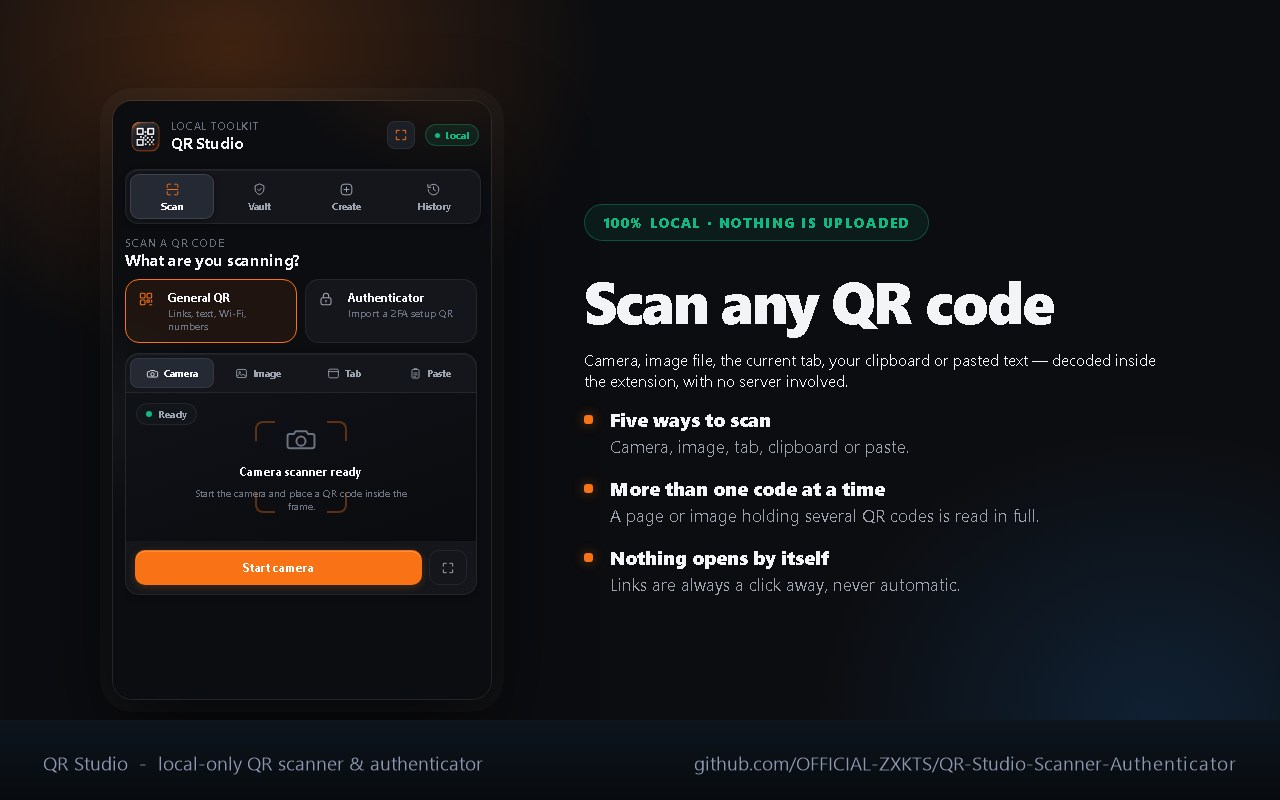
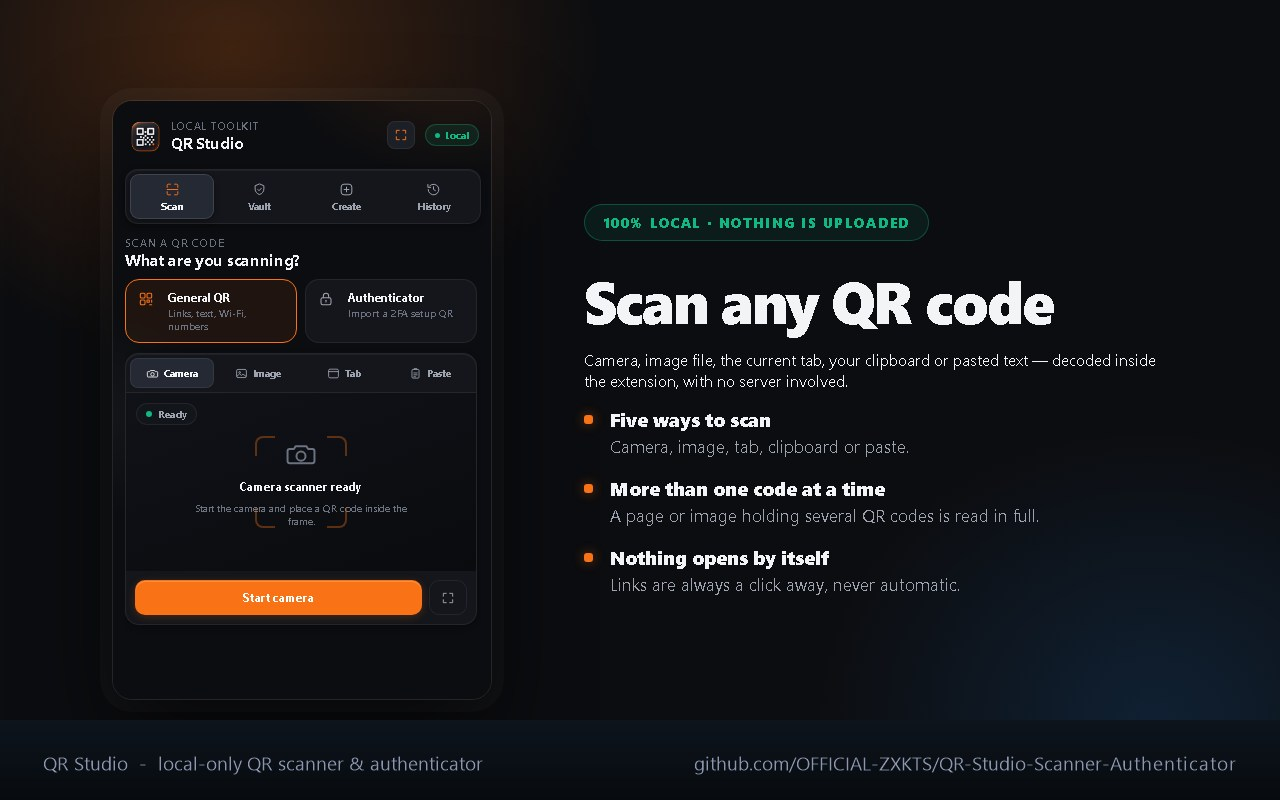
Stop the scan panel from breaking and read every code in a frame
- The camera stage has a fixed height, so nothing shifts when a preview, the
  paste box or a result appears; the paste box sizes itself instead of being
  cut off and the result card no longer slices the heading above it
- Multi-code recognition decodes the frame at full resolution and sweeps two
  overlapping tile grids, so codes that sit close together and coloured or
  low-contrast codes are read as well
- Refresh the store screenshots and the README gallery

Changed region(s): [[0.0938, 0.6875, 0.3438, 0.7812], [0.1875, 0.5312, 0.2812, 0.6562]]

diff --git a/popup.js b/popup.js
@@ -231,6 +231,8 @@ function setSource(source) {
   // The framing reticle belongs to the camera view only - it would otherwise
   // sit on top of the paste box and the other source panels.
   ui.reticle.hidden = source !== 'camera';
+  ui.stage.classList.toggle('is-paste', source === 'paste');
+  ui.stage.classList.remove('has-result');
   ui.stageEmpty.hidden = source === 'paste';
   ui.scanCanvas.hidden = true;
   ui.camera.hidden = true;
@@ -310,7 +312,7 @@ async function decodeSource(source, { multi = false } = {}) {
     }
   }
   if (typeof window.jsQR !== 'function') throw new Error('The bundled QR decoder did not load. Reload the extension from chrome://extensions.');
-  if (!drawToProcessingCanvas(source, multi ? 1100 : 1400)) return [];
+  if (!drawToProcessingCanvas(source, multi ? 1600 : 1400)) return [];
   const context = ui.processCanvas.getContext('2d', { willReadFrequently: true });
   const { width, height } = ui.processCanvas;
   if (!multi) {
@@ -324,6 +326,16 @@ async function decodeSource(source, { multi = false } = {}) {
 // The bundled decoder returns one code per pass, so a frame that holds several
 // QR codes is read again in overlapping tiles and every distinct payload is
 // kept. That is how one page or image can yield more than one code.
+const MULTI_CODE_TILE_SCALES = [0.5, 0.4];
+
+function tilePositions(size, tile, step) {
+  const positions = [];
+  for (let value = 0; value <= size - tile + 1; value += step) positions.push(Math.round(value));
+  const last = size - tile;
+  if (positions[positions.length - 1] !== last) positions.push(last);
+  return [...new Set(positions)];
+}
+
 function detectAllQRCodes(context, width, height) {
   const found = [];
   const seen = new Set();
@@ -339,14 +351,17 @@ function detectAllQRCodes(context, width, height) {
     return code?.data || '';
   };
   collect(read(0, 0, width, height));
-  const tileWidth = Math.max(80, Math.round(width * 0.6));
-  const tileHeight = Math.max(80, Math.round(height * 0.6));
-  const axis = (size, tile) => [...new Set([0, Math.round((size - tile) * 0.5), size - tile])].filter((value) => value >= 0);
-  for (const y of axis(height, tileHeight)) {
-    for (const x of axis(width, tileWidth)) {
-      // The full pass is repeated here on purpose: a frame with two codes
-      // confuses the single-shot read, while a clean tile still decodes.
-      collect(read(x, y, tileWidth, tileHeight));
+  // Two overlapping grids: the wider one catches the big codes, the finer one
+  // separates codes that sit close to each other.
+  for (const scale of MULTI_CODE_TILE_SCALES) {
+    const tileWidth = Math.max(80, Math.round(width * scale));
+    const tileHeight = Math.max(80, Math.round(height * scale));
+    const stepX = Math.max(1, Math.round(tileWidth / 2));
+    const stepY = Math.max(1, Math.round(tileHeight / 2));
+    for (const y of tilePositions(height, tileHeight, stepY)) {
+      for (const x of tilePositions(width, tileWidth, stepX)) {
+        collect(read(x, y, tileWidth, tileHeight));
+      }
     }
   }
   return found;
@@ -774,6 +789,18 @@ function showResult({ type, label, description, value, actions = [] }) {
     ui.resultActions.append(button);
   });
   ui.resultActions.hidden = actions.length === 0;
+  // Give the stage its height back so the result and the heading above it can
+  // be seen together, and keep the result itself in view.
+  if (state.view === 'scan') {
+    ui.stage.classList.add('has-result');
+    requestAnimationFrame(() => {
+      const panel = ui.resultCard.closest('.view-panel');
+      if (!panel) return;
+      panel.scrollTop = 0;
+      const overflow = ui.resultCard.getBoundingClientRect().bottom - panel.getBoundingClientRect().bottom;
+      if (overflow > 0) panel.scrollTop += overflow;
+    });
+  }
 }
 
 // Codes found next to the first one in the same frame are listed underneath.

diff --git a/popup.css b/popup.css
@@ -463,14 +463,25 @@ select option { color: var(--text-primary); background: var(--bg-elevated); }
 .scanner-stage {
   position: relative;
   display: grid;
-  min-height: 148px;
-  max-height: 178px;
+  /* A fixed height keeps the panel still: nothing shifts when the camera,
+     a preview or the paste box appears, so the content above is never cut. */
+  height: 178px;
   place-items: center;
   overflow: hidden;
   background: linear-gradient(160deg, #101218, #0A0B0E);
 }
+/* The stage gives room back once a result is on screen, so the result card
+   and the heading above it both stay visible without scrolling. */
+.scanner-stage.has-result { height: 118px; }
+/* The paste box needs more room than a code frame, so it sizes itself. */
+.scanner-stage.is-paste { height: auto; min-height: 178px; }
+/* With a result on screen the paste box becomes compact again, so the heading
+   above it and the result below both stay visible. */
+.scanner-stage.is-paste.has-result { min-height: 118px; }
+.scanner-stage.is-paste.has-result .paste-panel textarea { height: 52px; min-height: 52px; }
 .scanner-stage.drag-over { outline: 2px solid var(--accent-primary); outline-offset: -5px; }
-video, #scanCanvas { display: block; width: 100%; max-height: 300px; object-fit: cover; }
+video { display: block; width: 100%; height: 100%; object-fit: cover; }
+#scanCanvas { display: block; width: 100%; height: 100%; object-fit: contain; background: #05060A; }
 #processCanvas { display: none; }
 
 .stage-empty {
@@ -543,9 +554,11 @@ video, #scanCanvas { display: block; width: 100%; max-height: 300px; object-fit:
 .stage-status.error { color: var(--accent-danger); }
 .stage-status.error::before { background: var(--accent-danger); }
 
-.paste-panel { width: 100%; padding: 34px 16px 16px; }
+.paste-panel { width: 100%; padding: 12px 14px; }
 .paste-panel label { display: block; margin-bottom: 8px; color: var(--text-secondary); font-size: 11px; line-height: 1.4; }
-.paste-panel textarea { min-height: 92px; margin-bottom: 9px; font: 11px/1.4 var(--font-mono); }
+.paste-panel textarea { min-height: 84px; margin-bottom: 9px; font: 11px/1.4 var(--font-mono); }
+/* The status pill would sit on top of the paste label. */
+.scanner-stage.is-paste .stage-status { display: none; }
 code { color: #e9d5ff; }
 
 .scan-controls { display: flex; gap: 7px; padding: 9px; }
@@ -930,7 +943,9 @@ body.full-page .source-tab svg { width: 16px; height: 16px; }
 body.full-page .camera-picker { padding: 11px 14px; font-size: 11.5px; }
 body.full-page .camera-picker select { padding: 7px 10px; font-size: 12px; }
 
-body.full-page .scanner-stage { min-height: 300px; max-height: 46vh; }
+body.full-page .scanner-stage { height: 46vh; min-height: 300px; }
+body.full-page .scanner-stage.has-result { height: 240px; }
+body.full-page .scanner-stage.is-paste { height: auto; min-height: 300px; }
 body.full-page .reticle { width: 280px; height: 280px; }
 body.full-page .reticle span { width: 60px; height: 60px; border-width: 3px; border-radius: 15px; }
 body.full-page .stage-empty { gap: 14px; padding: 34px; }

diff --git a/CHANGELOG.md b/CHANGELOG.md
@@ -21,6 +21,13 @@ and this project adheres to [Semantic Versioning](https://semver.org/spec/v2.0.0
 
 ### Fixed
 
+- **The scan panel no longer breaks.** The camera stage now has a fixed height, so
+  nothing shifts when a preview, the paste box or a result appears. The paste box
+  sizes itself instead of being cut off, and the result card is shown without
+  slicing the heading above it.
+- Multi-code recognition sweeps two overlapping tile grids and decodes the frame
+  at full resolution, so codes that sit close together — and coloured or
+  low-contrast codes — are read as well.
 - The camera framing reticle no longer draws over the paste box — it belongs to
   the camera source only.
 - The status pill no longer overlaps the paste field.
